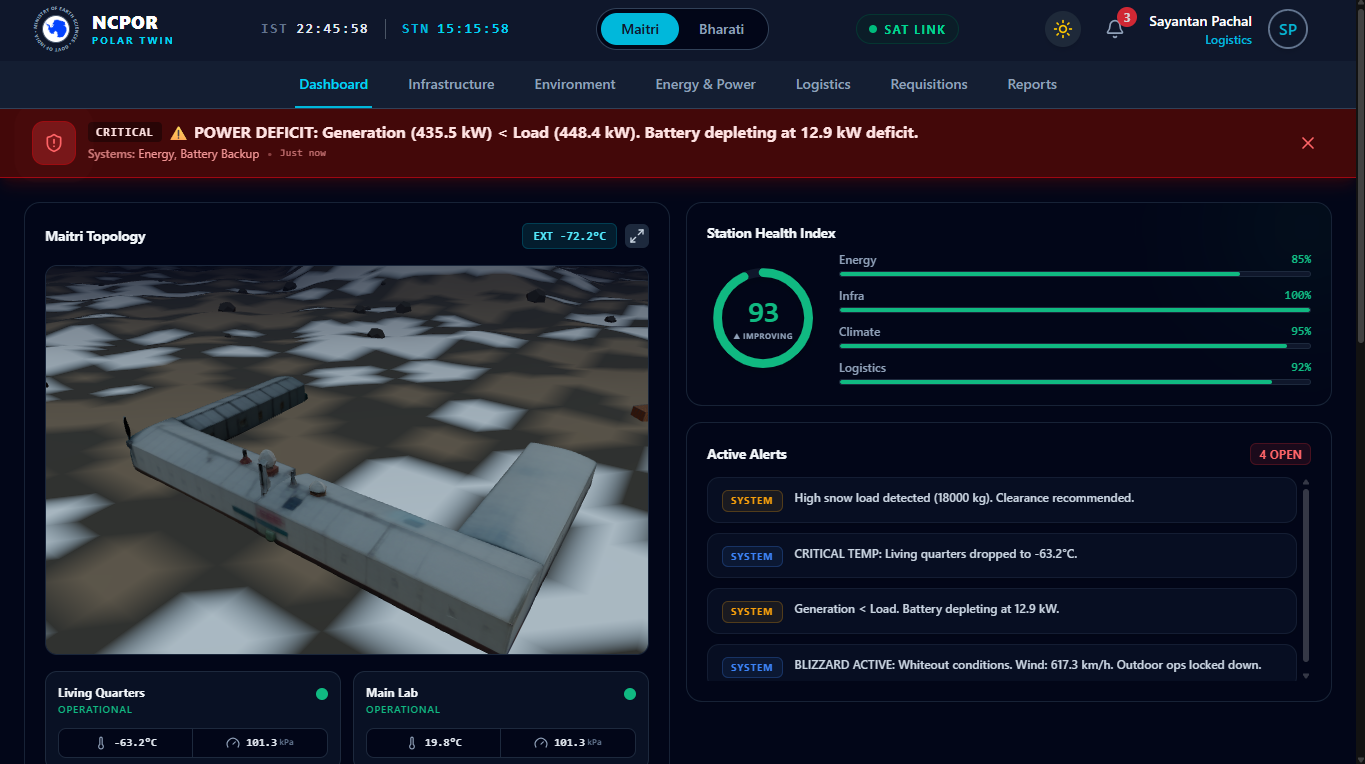
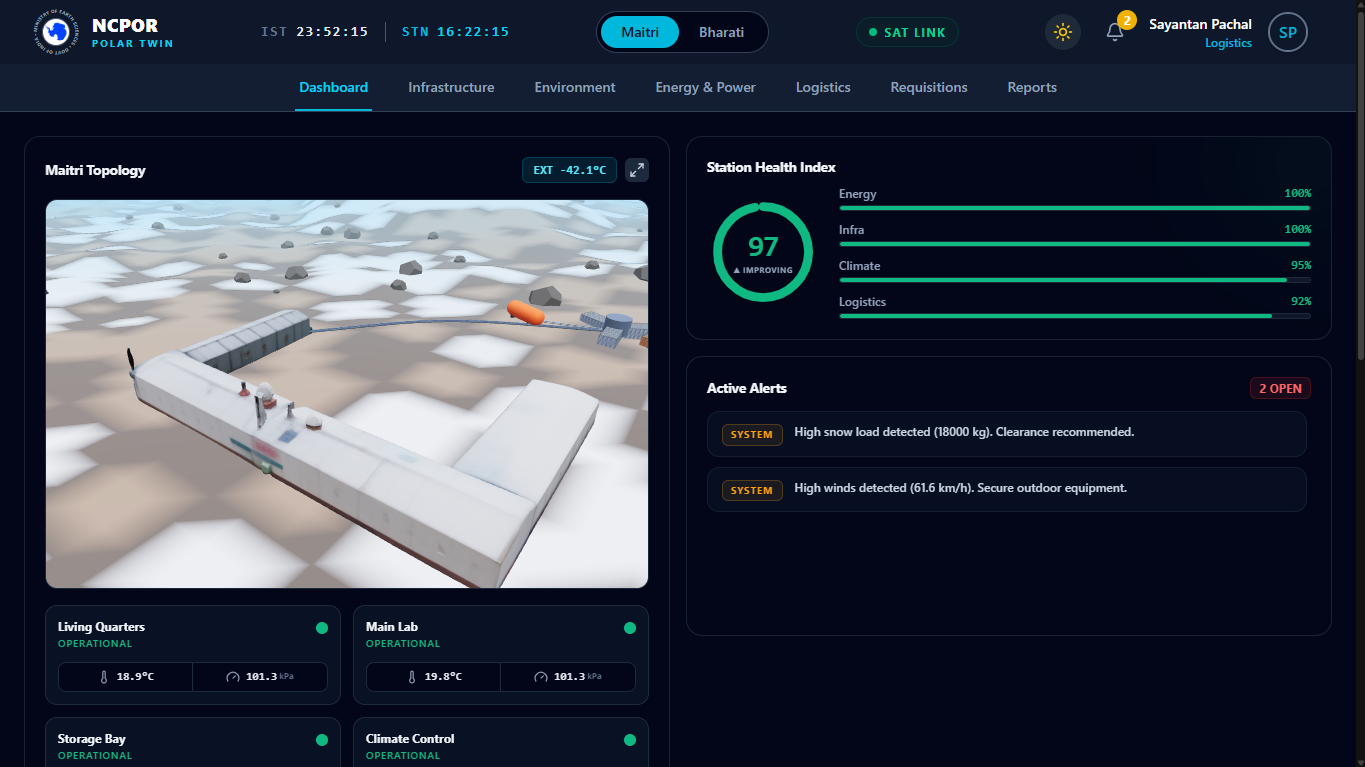
update 3d model

diff --git a/frontend/src/pages/Dashboard/components/station/FullscreenTopology.jsx b/frontend/src/pages/Dashboard/components/station/FullscreenTopology.jsx
@@ -1,3 +1,5 @@
+/* eslint-disable no-unused-vars */
+/* eslint-disable react-hooks/immutability */
 import React, { useMemo, Suspense, useEffect, useState } from "react";
 import { createPortal } from "react-dom";
 import { Navigation, Thermometer, Gauge, Loader2, X, Layers } from "lucide-react";
@@ -58,6 +60,12 @@ const BHARATI_DOME_CONFIG = { d1X: -22.30, d1Z: -10.10, d2X: 1.60, d2Z: -21.30 }
 const formatVal = (val, decimals = 1) => {
     const num = Number(val);
     return val === undefined || val === null || Number.isNaN(num) ? (0).toFixed(decimals) : num.toFixed(decimals);
+};
+
+const extractModuleTemp = (m) => {
+    const raw = m?.thermal_management?.indoor_temperature_c ?? m?.indoor_temperature_c ?? m?.temperature;
+    const num = Number(raw);
+    return raw !== undefined && raw !== null && !Number.isNaN(num) ? num : null;
 };
 
 function Model({ url, viewMode = "normal", isMaitri = false, isBharati = false, outsideTemp, activeCategory, moduleTemps }) {
@@ -157,24 +165,26 @@ export default function FullscreenTopology({ activeStation, modules = [], enviro
         modules.forEach((m) => {
             if (m.module_id) map.set(m.module_id, m);
             if (m.id) map.set(m.id, m);
+            if (m.name) map.set(m.name.toLowerCase(), m);
         });
         return map;
     }, [modules]);
 
     const moduleTemps = useMemo(() => {
-        const getTemp = (keys, fallback) => {
+        const getTemp = (keys) => {
             for (const k of keys) {
-                const val = modulesMap.get(k)?.thermal_management?.indoor_temperature_c;
-                if (val !== undefined && val !== null && !Number.isNaN(Number(val))) return Number(val);
+                const mod = modulesMap.get(k) || modulesMap.get(k.toLowerCase());
+                const temp = extractModuleTemp(mod);
+                if (temp !== null) return temp;
             }
-            return fallback;
+            return null;
         };
-        const lq = getTemp(["MOD-LQ-001", "living_quarters"], 19.5);
+        const lq = getTemp(["MOD-LQ-001", "living_quarters", "living quarters"]);
         return {
             lq,
-            lab: getTemp(["MOD-LAB-001", "main_lab"], 19.0),
-            storage: getTemp(["MOD-STORAGE-001", "storage_module"], -5.0),
-            hvac: getTemp(["HVAC-001", "hvac", "climate_control"], lq),
+            lab: getTemp(["MOD-LAB-001", "main_lab", "main lab"]),
+            storage: getTemp(["MOD-STORAGE-001", "storage_module", "storage bay"]),
+            hvac: getTemp(["HVAC-001", "hvac", "climate_control", "climate control"]),
         };
     }, [modulesMap]);
 
@@ -199,11 +209,11 @@ export default function FullscreenTopology({ activeStation, modules = [], enviro
                                     </div>
                                     <div className="flex flex-col gap-2">
                                         {currentLayout.map((config) => {
-                                            const m = modulesMap.get(config.id) || modulesMap.get(config.key);
+                                            const m = modulesMap.get(config.id) || modulesMap.get(config.key) || modulesMap.get(config.name.toLowerCase());
                                             const status = m?.status || "operational";
                                             const clr = STATUS_COLORS[status] || STATUS_COLORS.ok;
-                                            const rawTemp = m?.thermal_management?.indoor_temperature_c ?? (config.id === "HVAC-001" ? moduleTemps.lq : undefined);
-                                            const temp = rawTemp !== undefined ? formatVal(rawTemp, 1) : formatVal(moduleTemps.lq, 1);
+                                            const liveTemp = extractModuleTemp(m);
+                                            const temp = liveTemp !== null ? formatVal(liveTemp, 1) : "Auto";
                                             return (
                                                 <div key={config.id} className="bg-white/5 dark:bg-black/20 border border-white/10 dark:border-white/5 rounded-lg p-2 flex flex-col justify-between overflow-hidden">
                                                     <div className="flex justify-between items-start mb-2">
@@ -221,7 +231,9 @@ export default function FullscreenTopology({ activeStation, modules = [], enviro
                                                     <div className="grid grid-cols-2 bg-black/30 dark:bg-black/50 rounded border border-white/5 divide-x divide-white/10 overflow-hidden">
                                                         <div className="flex items-center justify-center gap-1 p-1 whitespace-nowrap overflow-hidden">
                                                             <Thermometer className="w-3 h-3 text-slate-300 shrink-0" />
-                                                            <span className="text-[0.65rem] font-mono font-semibold text-slate-100 truncate">{temp}°C</span>
+                                                            <span className="text-[0.65rem] font-mono font-semibold text-slate-100 truncate">
+                                                                {temp}{temp !== "Auto" && "°C"}
+                                                            </span>
                                                         </div>
                                                         <div className="flex items-center justify-center gap-1 p-1 whitespace-nowrap overflow-hidden">
                                                             <Gauge className="w-3 h-3 text-slate-300 shrink-0" />

diff --git a/frontend/src/pages/Dashboard/components/station/MaitriXray.jsx b/frontend/src/pages/Dashboard/components/station/MaitriXray.jsx
@@ -1,3 +1,4 @@
+/* eslint-disable no-unused-vars */
 import React, { useState, useEffect, useRef } from "react";
 import * as THREE from "three";
 import { Html } from "@react-three/drei";
@@ -6,20 +7,20 @@ import { useFrame } from "@react-three/fiber";
 const COLORS = ["#60a5fa", "#4ade80", "#facc15", "#fb923c", "#2dd4bf"];
 const RANDOM_SEQ = [3, 1, 4, 0, 2, 4, 1, 0, 3, 2, 1, 4, 2, 0, 3, 1, 4, 2];
 
-const getRoomTemp = (blockName, colorIndex, moduleTemps, outsideTemp) => {
-    const lqRef = moduleTemps?.lq ?? 19.5;
-    if (blockName.includes("Main Lab")) return `${(moduleTemps?.lab ?? 19.0).toFixed(1)}°C`;
-    if (blockName.includes("Storage") || blockName.includes("Logistics")) return `${(moduleTemps?.storage ?? -5.0).toFixed(1)}°C`;
-    if (blockName.includes("Living Quarters")) return `${(lqRef + (colorIndex % 3) * 0.1).toFixed(1)}°C`;
-    if (blockName.includes("Hospital") || blockName.includes("Office") || blockName.includes("Canteen") || blockName.includes("Auditorium")) {
-        return `${(lqRef - 0.2 + (colorIndex % 2) * 0.2).toFixed(1)}°C`;
+const getRoomTemp = (blockName, moduleTemps) => {
+    if (blockName.includes("Main Lab")) {
+        return moduleTemps?.lab !== null && moduleTemps?.lab !== undefined ? `${moduleTemps.lab.toFixed(1)}°C` : "Auto";
     }
-    if (blockName.includes("Energy") || blockName.includes("Generator")) return `${(lqRef + 8.5).toFixed(1)}°C`;
-    if (blockName.includes("Fuel")) return `${Math.max(-10, (outsideTemp || -15) + 12).toFixed(1)}°C`;
-    return `${(lqRef - 0.5).toFixed(1)}°C`;
+    if (blockName.includes("Storage") || blockName.includes("Logistics") || blockName.includes("Fuel")) {
+        return moduleTemps?.storage !== null && moduleTemps?.storage !== undefined ? `${moduleTemps.storage.toFixed(1)}°C` : "Auto";
+    }
+    if (moduleTemps?.lq !== null && moduleTemps?.lq !== undefined) {
+        return `${moduleTemps.lq.toFixed(1)}°C`;
+    }
+    return "Auto";
 };
 
-function PartitionBlock({ width, height, depth, position, colorIndex, blockName, isActive, onToggle, outsideTemp, activeCategory, moduleTemps }) {
+function PartitionBlock({ width, height, depth, position, colorIndex, blockName, isActive, onToggle, activeCategory, moduleTemps }) {
     const colorHex = COLORS[colorIndex % COLORS.length];
     let matchesCategory = false;
     if (activeCategory === "Energy") {
@@ -37,7 +38,7 @@ function PartitionBlock({ width, height, depth, position, colorIndex, blockName,
     const emissiveIntensity = isHighlighted ? 1.5 : isActive ? 0.6 : 0;
     const boxOpacity = isDimmed ? 0.05 : isHighlighted ? 0.9 : isActive ? 0.75 : 0.45;
     const borderOpacity = isDimmed ? 0.05 : isHighlighted ? 0.9 : 0.6;
-    const displayTemp = getRoomTemp(blockName, colorIndex, moduleTemps, outsideTemp);
+    const displayTemp = getRoomTemp(blockName, moduleTemps);
 
     const matRef2 = useRef();
     const matRef3 = useRef();

diff --git a/frontend/src/pages/Dashboard/components/station/BharatiXray.jsx b/frontend/src/pages/Dashboard/components/station/BharatiXray.jsx
@@ -6,20 +6,20 @@ import { useFrame } from "@react-three/fiber";
 
 const COLORS = ["#3b82f6", "#22c55e", "#eab308", "#f97316", "#14b8a6"];
 
-const getRoomTemp = (blockName, colorIndex, moduleTemps, outsideTemp) => {
-    const lqRef = moduleTemps?.lq ?? 19.5;
-    if (blockName.includes("Main Lab")) return `${(moduleTemps?.lab ?? 19.0).toFixed(1)}°C`;
-    if (blockName.includes("Storage")) return `${(moduleTemps?.storage ?? -5.0).toFixed(1)}°C`;
-    if (blockName.includes("Living Quarters")) return `${(lqRef + (colorIndex % 3) * 0.1).toFixed(1)}°C`;
-    if (blockName.includes("Hospital") || blockName.includes("Office") || blockName.includes("Canteen") || blockName.includes("Auditorium")) {
-        return `${(lqRef - 0.2 + (colorIndex % 2) * 0.2).toFixed(1)}°C`;
+const getRoomTemp = (blockName, moduleTemps) => {
+    if (blockName.includes("Main Lab")) {
+        return moduleTemps?.lab !== null && moduleTemps?.lab !== undefined ? `${moduleTemps.lab.toFixed(1)}°C` : "Auto";
     }
-    if (blockName.includes("Energy")) return `${(lqRef + 8.5).toFixed(1)}°C`;
-    const fallback = outsideTemp ? Math.max(18, Math.min(24, outsideTemp + 35)) : lqRef;
-    return `${fallback.toFixed(1)}°C`;
+    if (blockName.includes("Storage")) {
+        return moduleTemps?.storage !== null && moduleTemps?.storage !== undefined ? `${moduleTemps.storage.toFixed(1)}°C` : "Auto";
+    }
+    if (moduleTemps?.lq !== null && moduleTemps?.lq !== undefined) {
+        return `${moduleTemps.lq.toFixed(1)}°C`;
+    }
+    return "Auto";
 };
 
-function PartitionBlock({ width, height, depth, position, colorIndex, blockName, isActive, onToggle, outsideTemp, activeCategory, moduleTemps }) {
+function PartitionBlock({ width, height, depth, position, colorIndex, blockName, isActive, onToggle, activeCategory, moduleTemps }) {
     const colorHex = COLORS[colorIndex % COLORS.length];
     let matchesCategory = false;
     if (activeCategory === "Energy") {
@@ -38,7 +38,7 @@ function PartitionBlock({ width, height, depth, position, colorIndex, blockName,
     const boxOpacity = isDimmed ? 0.05 : isHighlighted ? 0.9 : isActive ? 0.9 : 0.65;
     const sideOpacity = isDimmed ? 0.05 : isHighlighted ? 0.95 : isActive ? 0.95 : 0.85;
     const borderOpacity = isDimmed ? 0.05 : isHighlighted ? 0.9 : 0.6;
-    const displayTemp = getRoomTemp(blockName, colorIndex, moduleTemps, outsideTemp);
+    const displayTemp = getRoomTemp(blockName, moduleTemps);
 
     const matRef2 = useRef();
     const matRef3 = useRef();
